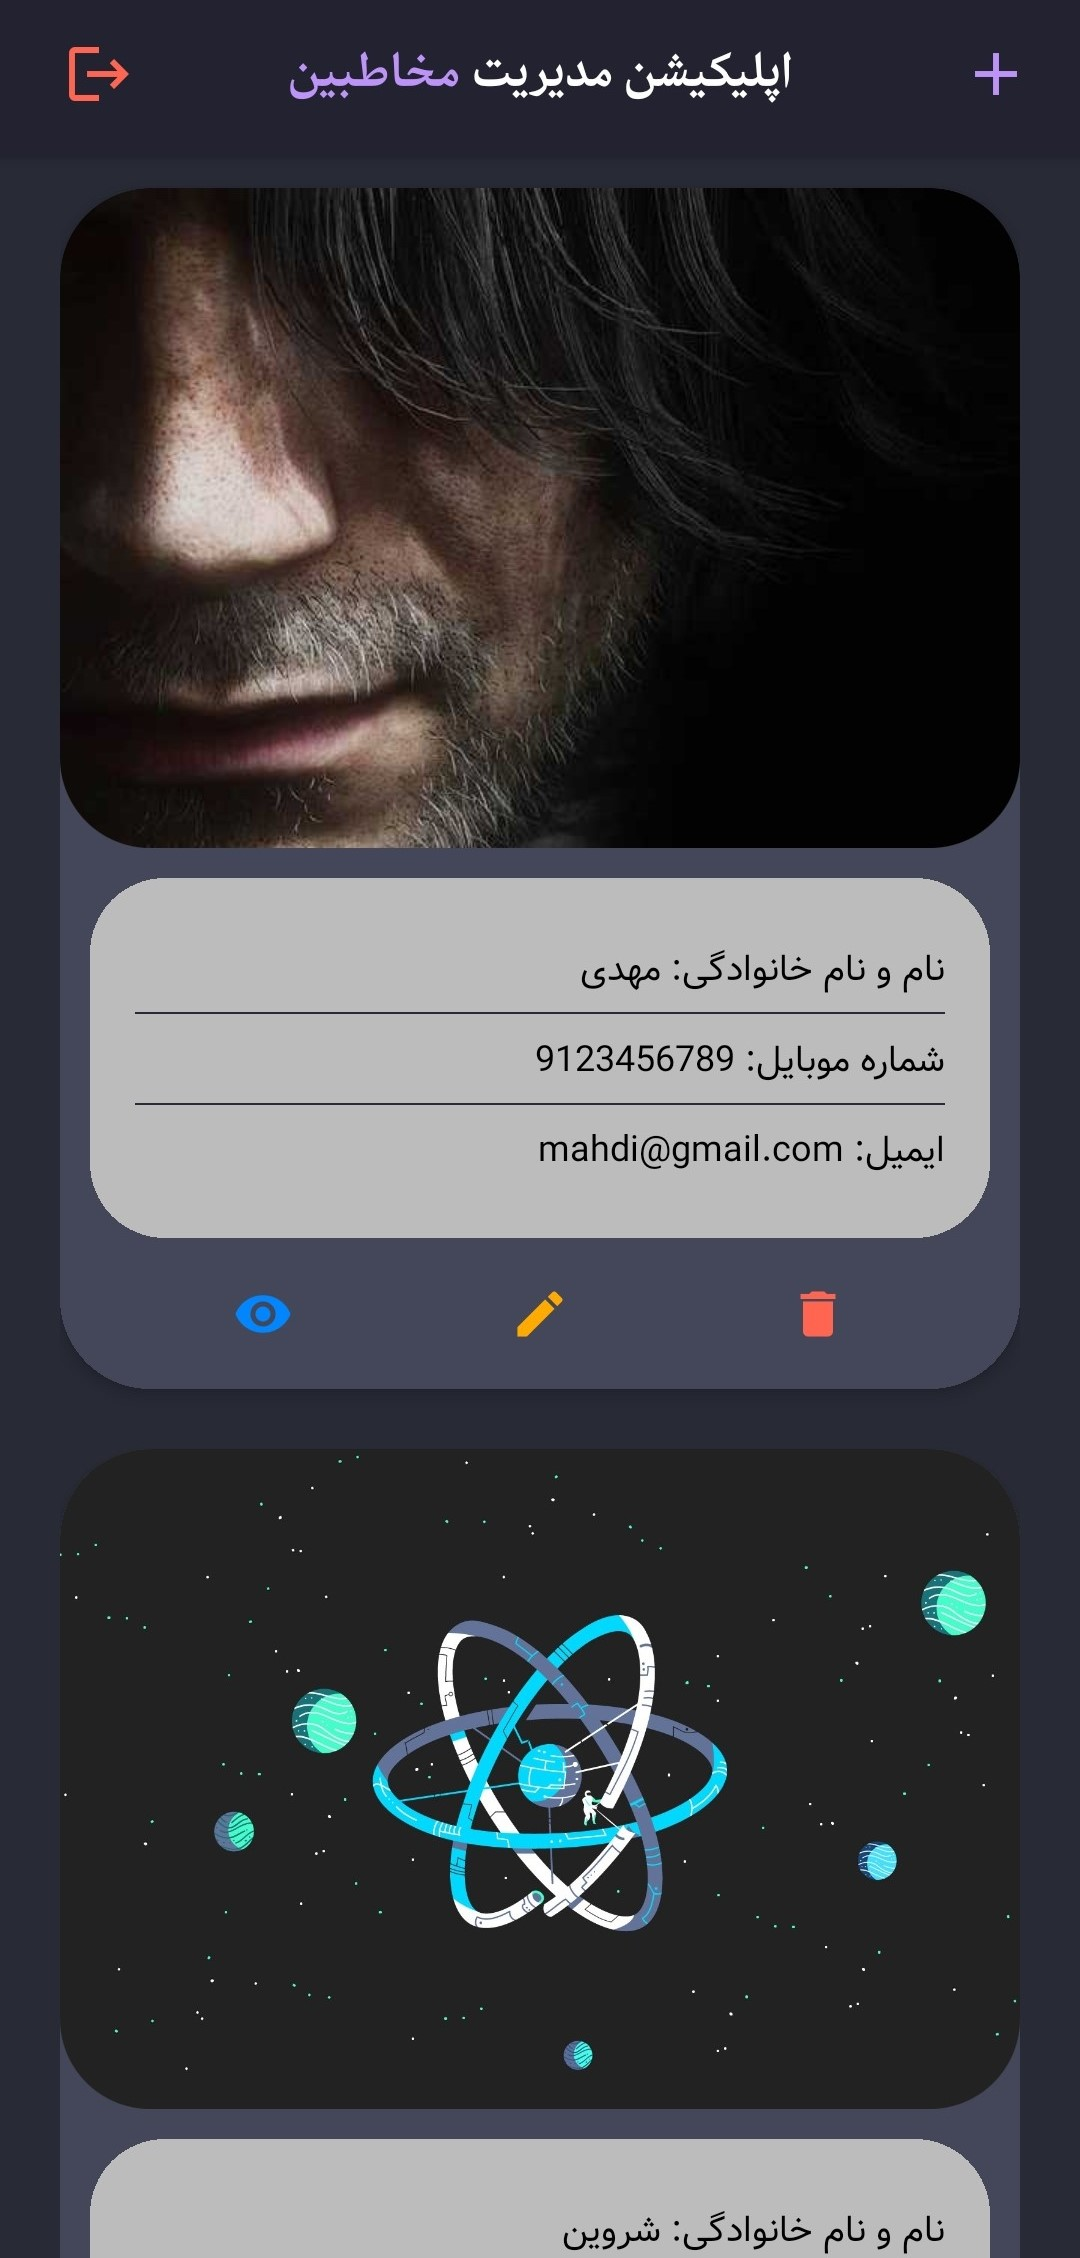
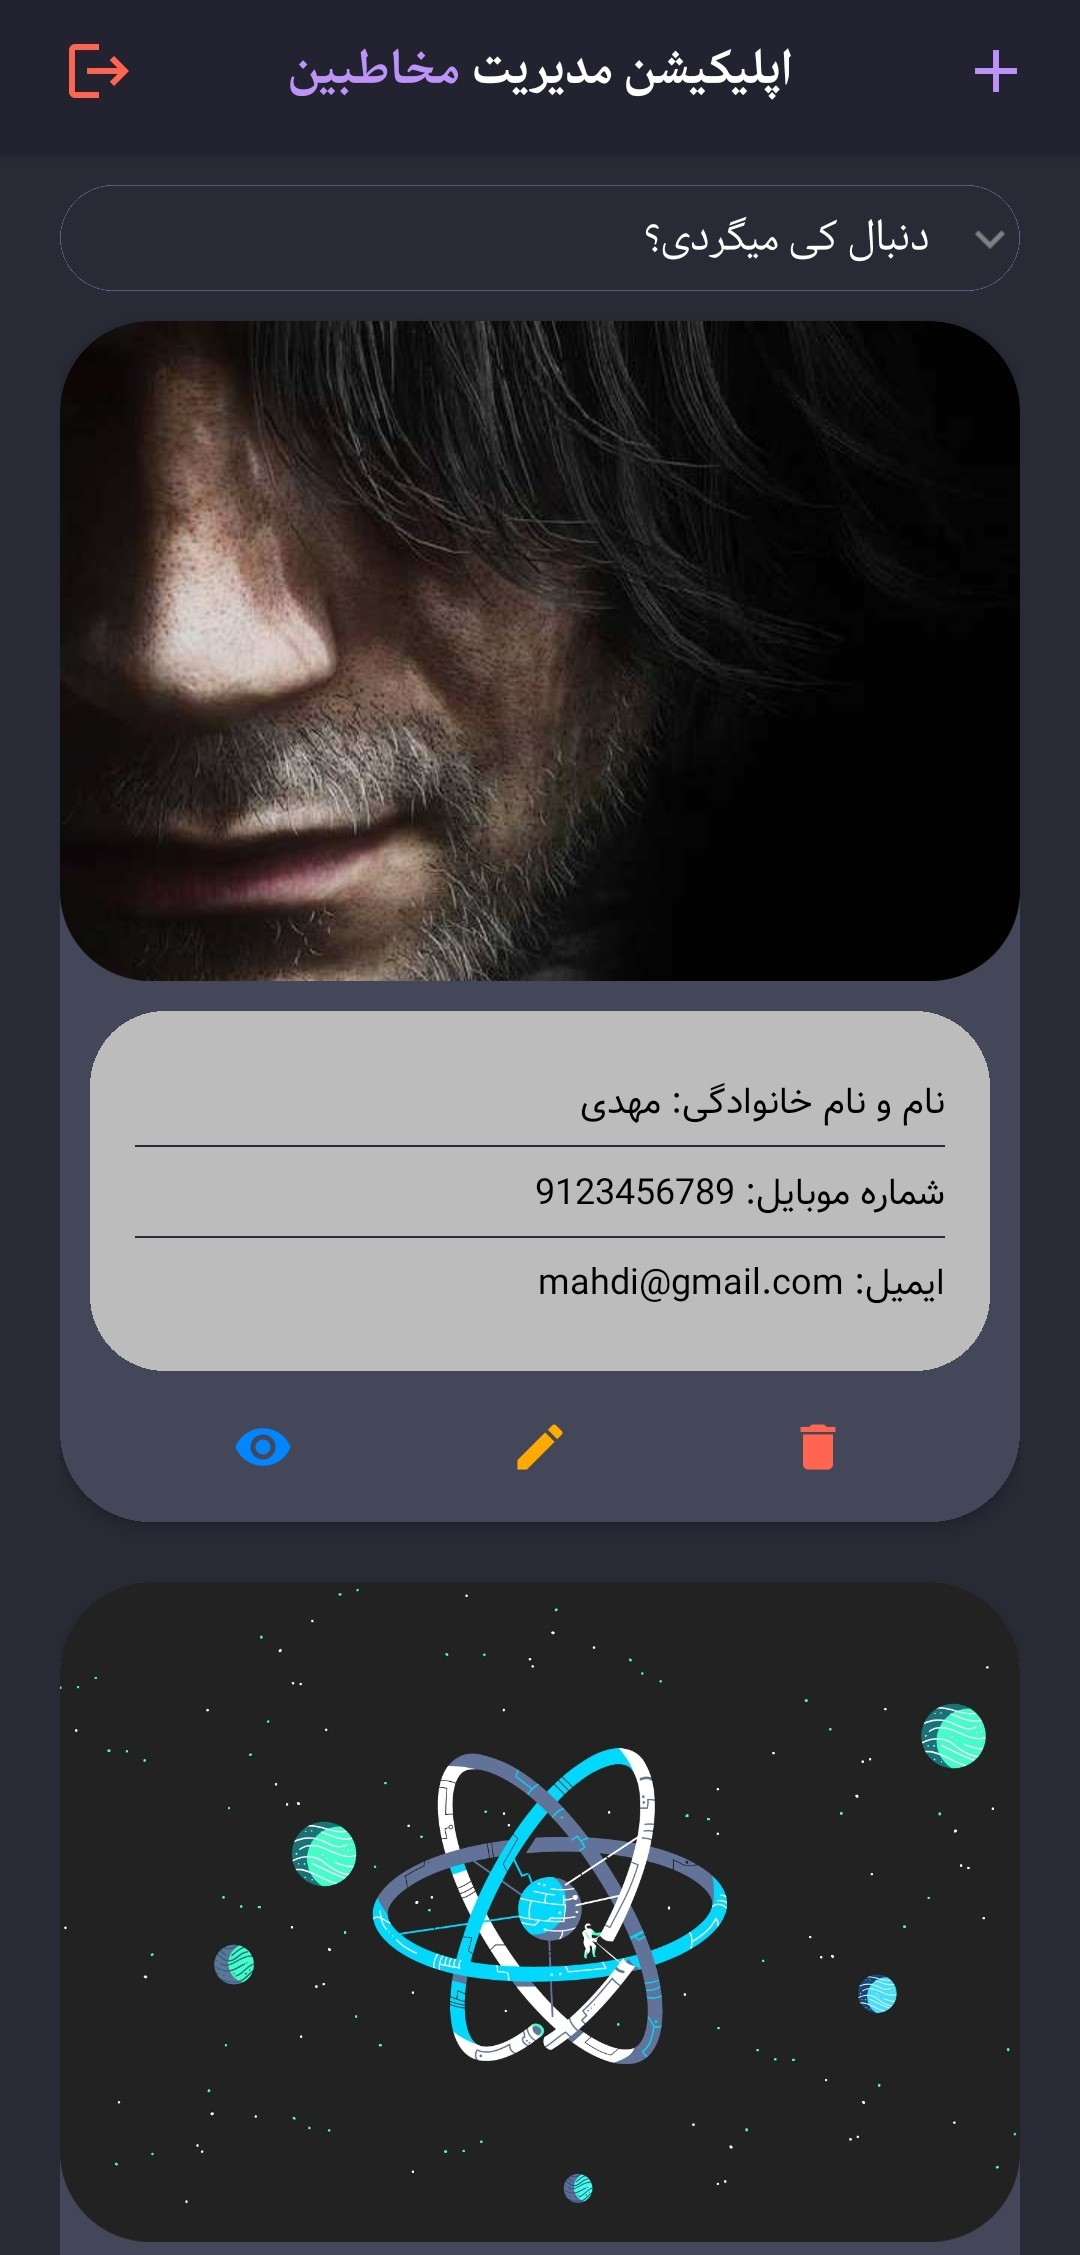
README: search bar screenshot added to README.md...

diff --git a/components/Home/AutoComplete.tsx b/components/Home/AutoComplete.tsx
@@ -1,4 +1,4 @@
-import { StyleSheet, View } from 'react-native';
+import { View } from 'react-native';
 import React from 'react';
 
 import { AutoCompleteData } from '../../screens/HomeScreen';
@@ -56,5 +56,3 @@ const AutoComplete = (props: AutoCompleteProps) => {
 };
 
 export default AutoComplete;
-
-const styles = StyleSheet.create({});

diff --git a/README.md b/README.md
@@ -47,6 +47,12 @@ it's just a mobile version of [web contact manager](https://contact-manager-ecru
 
 <br/>
 
+## Search Section In Home Screen
+
+![](images/Search.jpg)
+
+<br/>
+
 ## Signup Screen
 
 ![](images/Signup.jpg)
